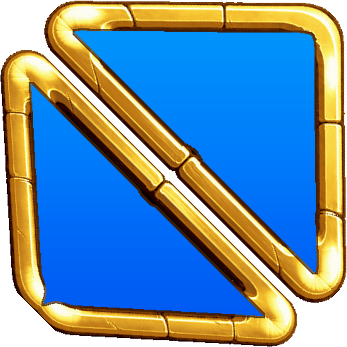
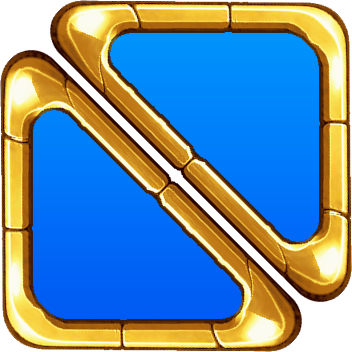
mole v963: 스킬 칸 두 세모를 똑같이(위 세모 거울상), 모서리 파임 수정, 스킬 원 40%
Claude-Session: https://claude.ai/code/session_01GirAya7RX91uMc859bmUVe

diff --git a/mole/style.css b/mole/style.css
@@ -6424,12 +6424,12 @@ html, body, .cosmic-bg { background: #2a190d; }
 #game-screen:not(.is-start) .lane-face--key::after,
 #game-screen:not(.is-start):not(.gs-laneskill) .lane-button--call::after,
 #game-screen:not(.is-start) .lane-button--simple::after { inset: 0; }
-/* v961~962(사용자 지정): 스킬 칸 = 네모(대각선 /, ✱ 칸은 \) 금테두리 + 안쪽 파란 버튼, 원은 각 세모 안 최대(그림 실측 내접원) */
+/* v961~963(사용자 지정): 스킬 칸 = 네모(위 세모를 거울상으로 아래에 — 두 세모 똑같이)(대각선 /, ✱ 칸은 \) 금테두리 + 안쪽 파란 버튼, 원은 각 세모 안 최대(그림 실측 내접원) */
 #game-screen.gs-laneskill:not(.is-start) .lane-button--call .lane-items::before { inset: 0; background-image: url('assets/home2/skill-box-gold.png'); }
 #game-screen.gs-alipunch:not(.is-start) [data-region="12"] .lane-items::before { inset: 0; background-image: url('assets/home2/skill-box-gold-l.png'); }
 #game-screen.gs-laneskill:not(.is-start) .lane-button--call .lane-item,
-#game-screen.gs-alipunch:not(.is-start) [data-region="12"] .lane-item { width: 35%; height: auto; right: auto; bottom: auto; }
-#game-screen.gs-laneskill:not(.is-start) .lane-button--call .lane-item[data-slot="0"] { left: 29.1%; top: 29.1%; }
+#game-screen.gs-alipunch:not(.is-start) [data-region="12"] .lane-item { width: 40%; height: auto; right: auto; bottom: auto; }
+#game-screen.gs-laneskill:not(.is-start) .lane-button--call .lane-item[data-slot="0"] { left: 29.3%; top: 29.3%; }
 #game-screen.gs-laneskill:not(.is-start) .lane-button--call .lane-item[data-slot="1"] { left: 70.5%; top: 70.5%; }
-#game-screen.gs-alipunch:not(.is-start) [data-region="12"] .lane-item[data-slot="0"] { left: 70.9%; top: 29.1%; }
+#game-screen.gs-alipunch:not(.is-start) [data-region="12"] .lane-item[data-slot="0"] { left: 70.7%; top: 29.3%; }
 #game-screen.gs-alipunch:not(.is-start) [data-region="12"] .lane-item[data-slot="1"] { left: 29.5%; top: 70.5%; }

diff --git a/mole/index.html b/mole/index.html
@@ -873,7 +873,7 @@
         <!-- 배포 버전 표식(스크린샷으로 어느 버전인지 확인용) — 화면 좌하단에 두면 다른 UI에
              가려 잘 안 보인다는 사용자 지적으로, 하트 아이콘(다이얼패드 1번 칸) 바로 위로 이동. -->
         <div class="h2-preload" aria-hidden="true"></div><!-- v951: 게임 중 버튼 색(초록·노랑·빨강·분홍·회색) 미리 읽어 두기 — 처음 바뀔 때 깜빡임 방지 -->
-        <div id="build-tag" aria-hidden="true">v962</div>
+        <div id="build-tag" aria-hidden="true">v963</div>
         <!-- 피버타임(터치캐치 보너스타임) 전광판 — 버튼보드 자리를 통째로 덮는 오버레이,
              평소엔 hidden, 피버 중에만 콤보/잔여시간 표시(사용자 지정: "전광판처럼"). -->
         <div id="fever-scoreboard" class="fever-scoreboard" hidden>
@@ -1127,7 +1127,7 @@ window.FGH.rollOut = function (el, done) {
       } else {
         // ?v= 로 매 배포마다 URL을 바꿔서 GitHub Pages의 sw.js 캐시(max-age=600)를 무조건 우회 —
         // 안 그러면 배포 직후에도 최대 10분간 옛 서비스워커가 안 갈리는 경우가 있었음(사용자 보고).
-        navigator.serviceWorker.register('sw.js?v=962').catch(function () {});
+        navigator.serviceWorker.register('sw.js?v=963').catch(function () {});
       }
     });
   }

diff --git a/mole/sw.js b/mole/sw.js
@@ -3,7 +3,7 @@
 // 폴백 전용으로만 갱신한다. (예전엔 stale-while-revalidate라 배포해도 "다음 실행"에야
 // 반영돼 사용자 체감 대기가 길었음 — 온라인=항상 최신, 오프라인=마지막 캐시로 변경.)
 // SHELL 목록 자체가 바뀔 때만 CACHE 를 올린다.
-const CACHE = 'mole-game-v962';
+const CACHE = 'mole-game-v963';
 
 // 화면별 BGM(audio/bgm-*.mp3)은 v275 부터 SHELL 에 포함 — 기본 켜짐(v272)이라 항상 필요하고,
 // 캐시가 안 돼 있으면 오프라인/느린망에서 재생 실패했음.
